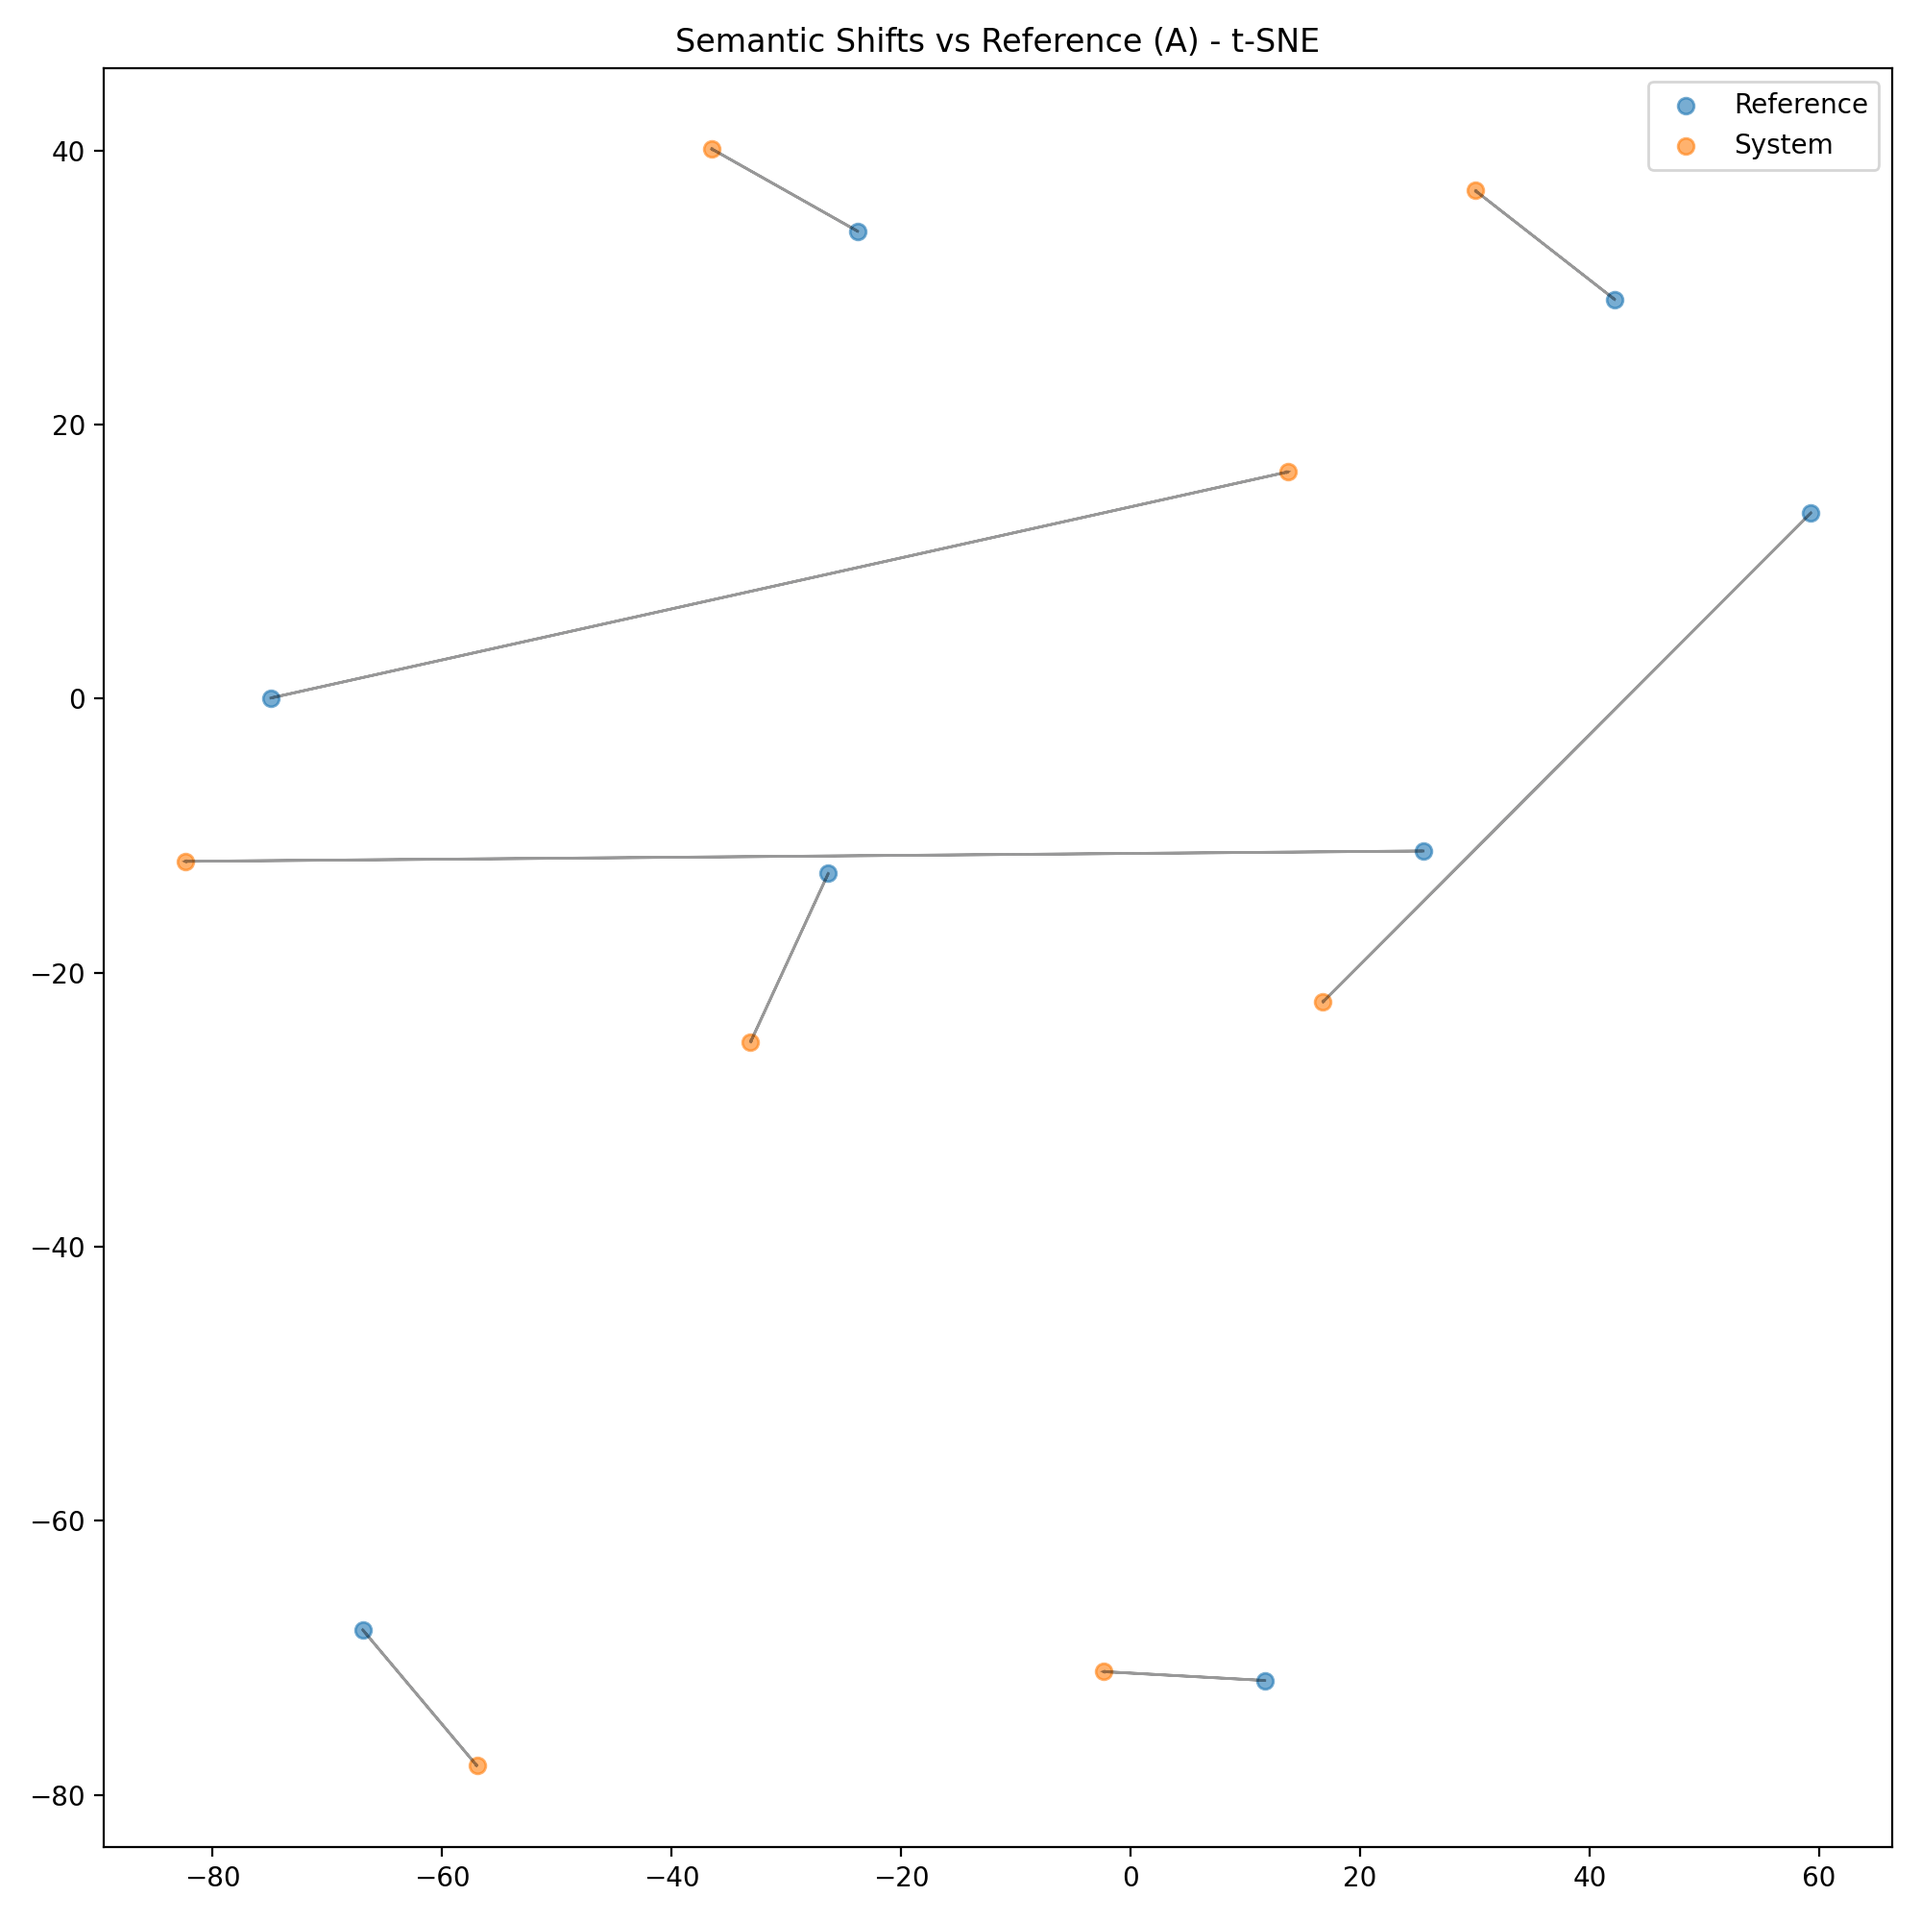
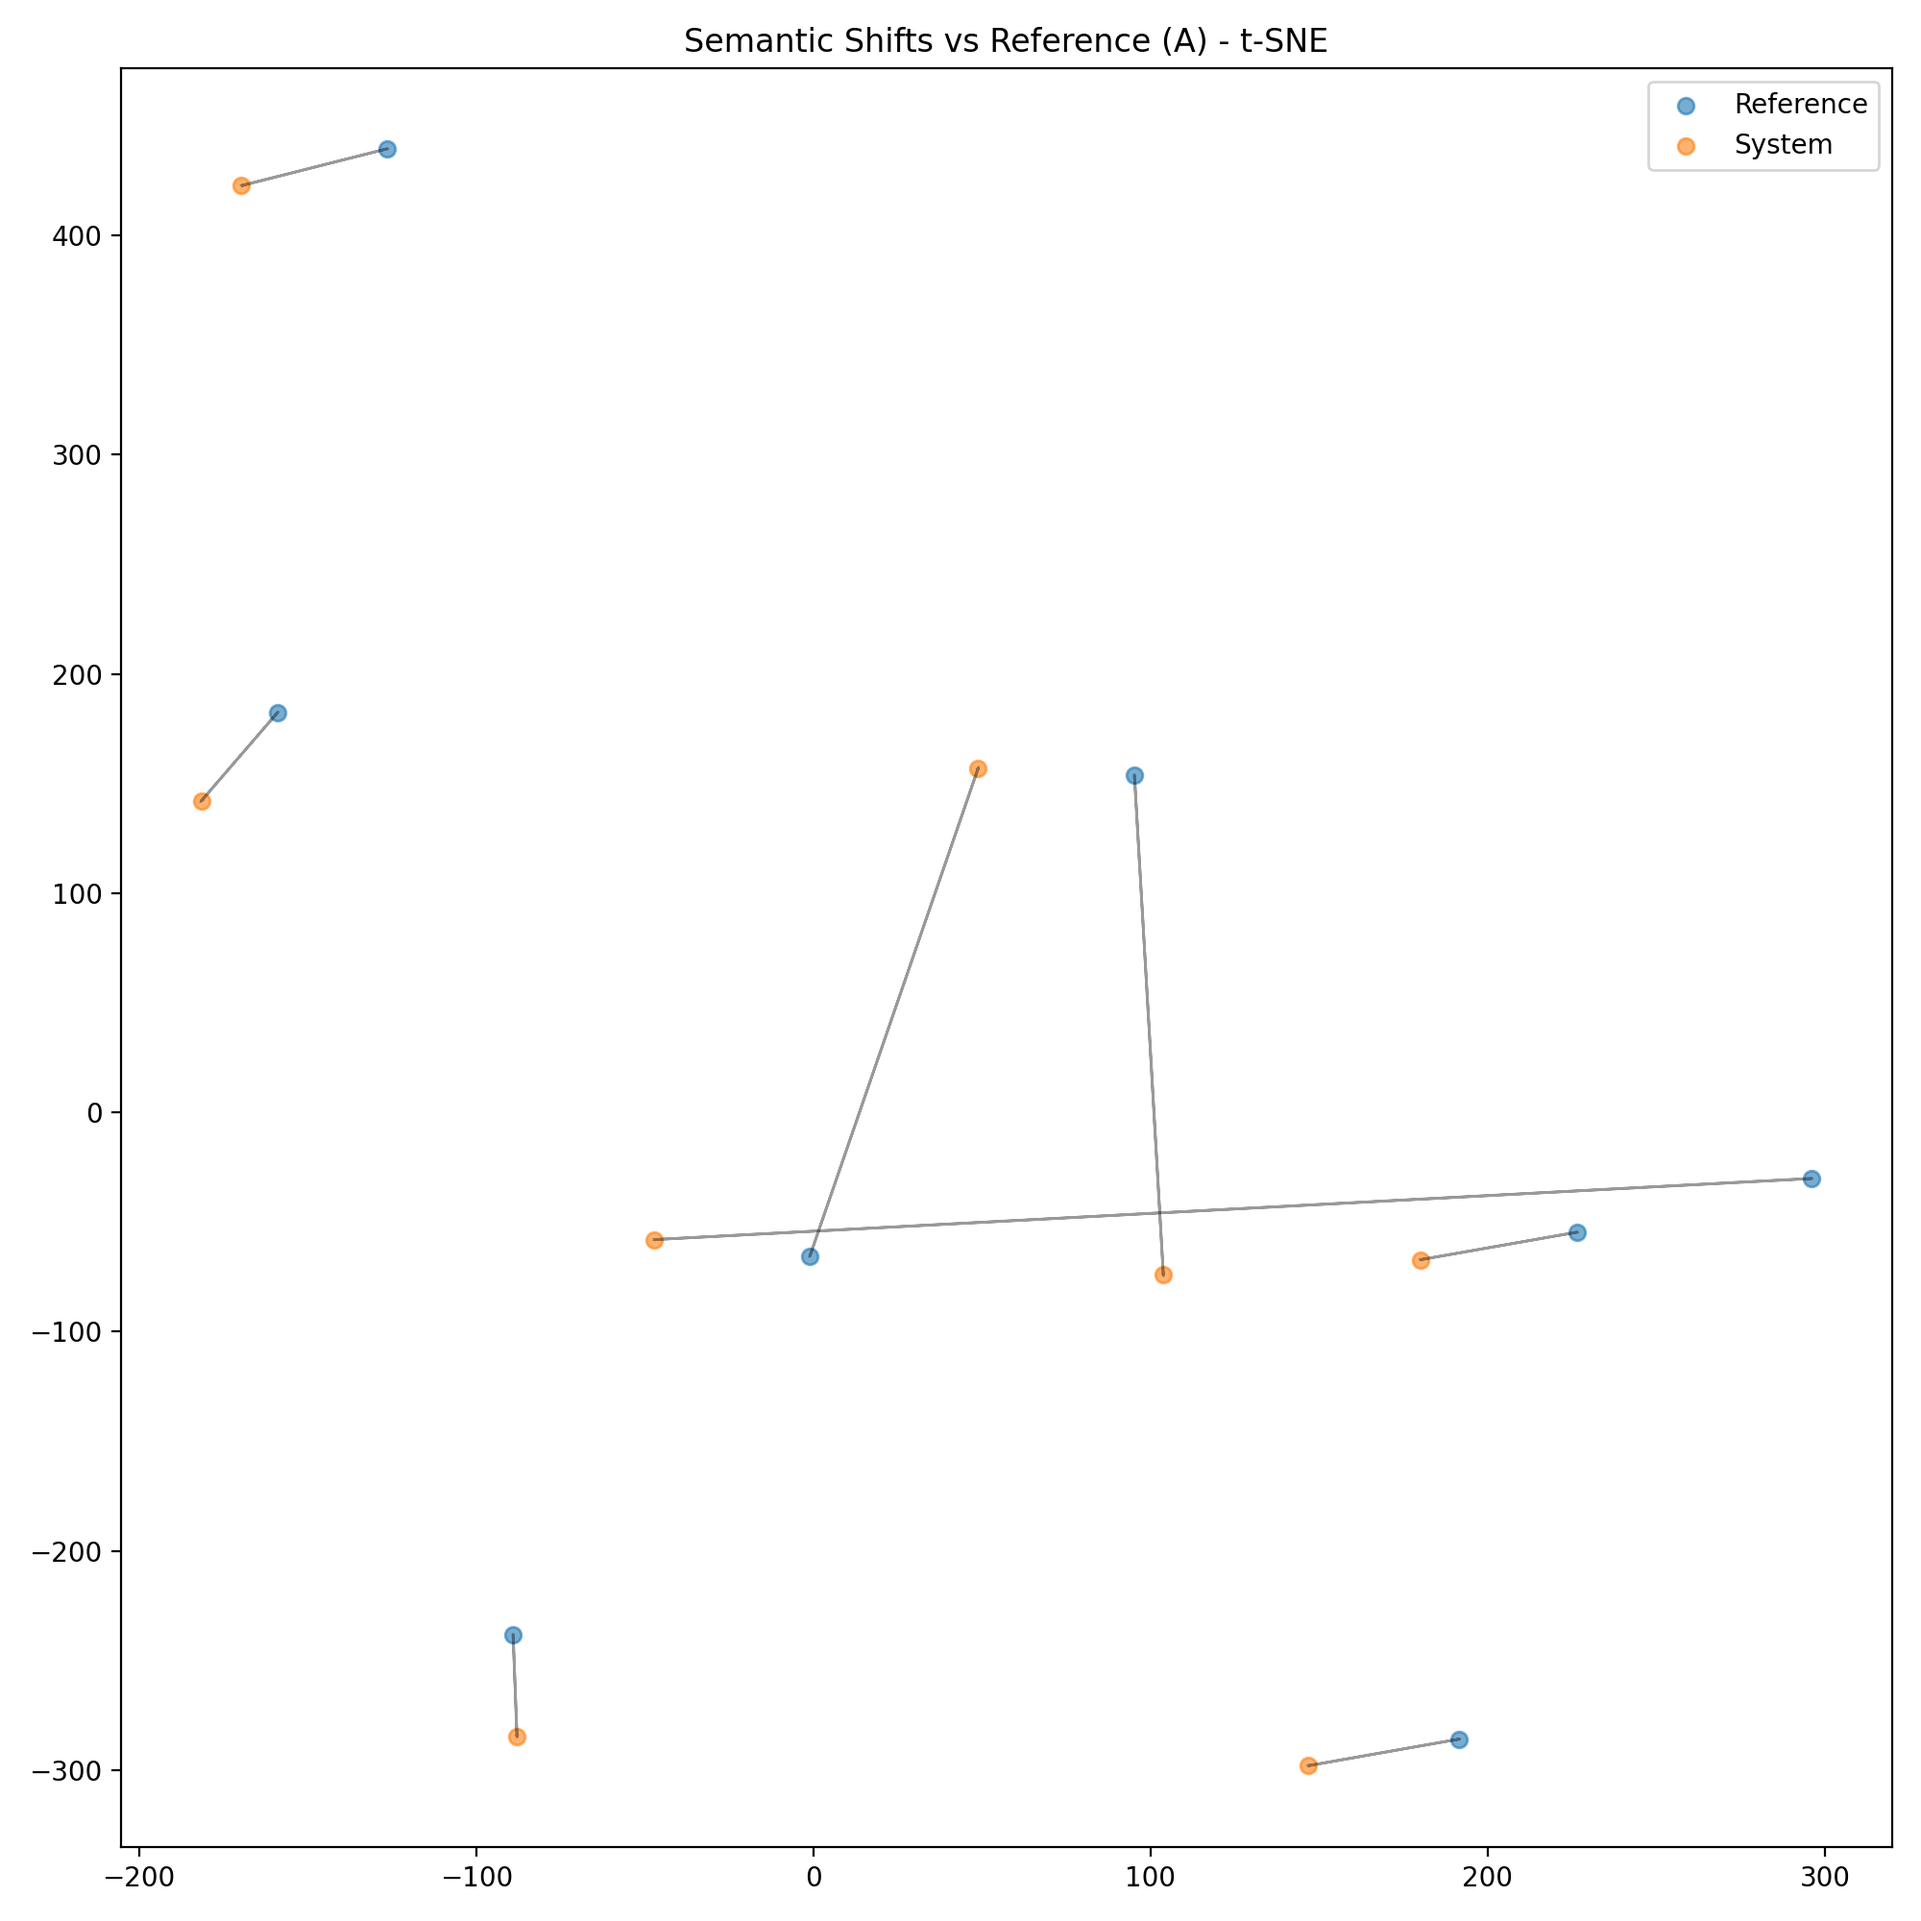
edited a command

diff --git a/nlp_project/cosine_sim.py b/nlp_project/cosine_sim.py
@@ -12,7 +12,7 @@ cd into nlp_project and run:
 
 TXT Mode:
 TEXT 1) python cosine_sim.py txt --ref outputs/text1_gec.txt --sysA outputs/text1_pipeA.txt --sysB outputs/text1_pipeB.txt --sysC outputs/text1_pipeC.txt --outdir results/text1/
-TEXT 2) python cosine_sim.py txt --ref outputs/text1_gec.txt --sysA outputs/text1_pipeA.txt --sysB outputs/text1_pipeB.txt --sysC outputs/text1_pipeC.txt --outdir results/text1/
+TEXT 2) python cosine_sim.py txt --ref outputs/text2_gec.txt --sysA outputs/text2_pipeA.txt --sysB outputs/text2_pipeB.txt --sysC outputs/text2_pipeC.txt --outdir results/text2/
 
 SEN Mode:
 python cosine_sim.py sen --sent1_og outputs/sent1_og.txt --sent1_out outputs/sent1_out.txt --sent2_og outputs/sent2_og.txt --sent2_out outputs/sent2_out.txt --outdir results/
